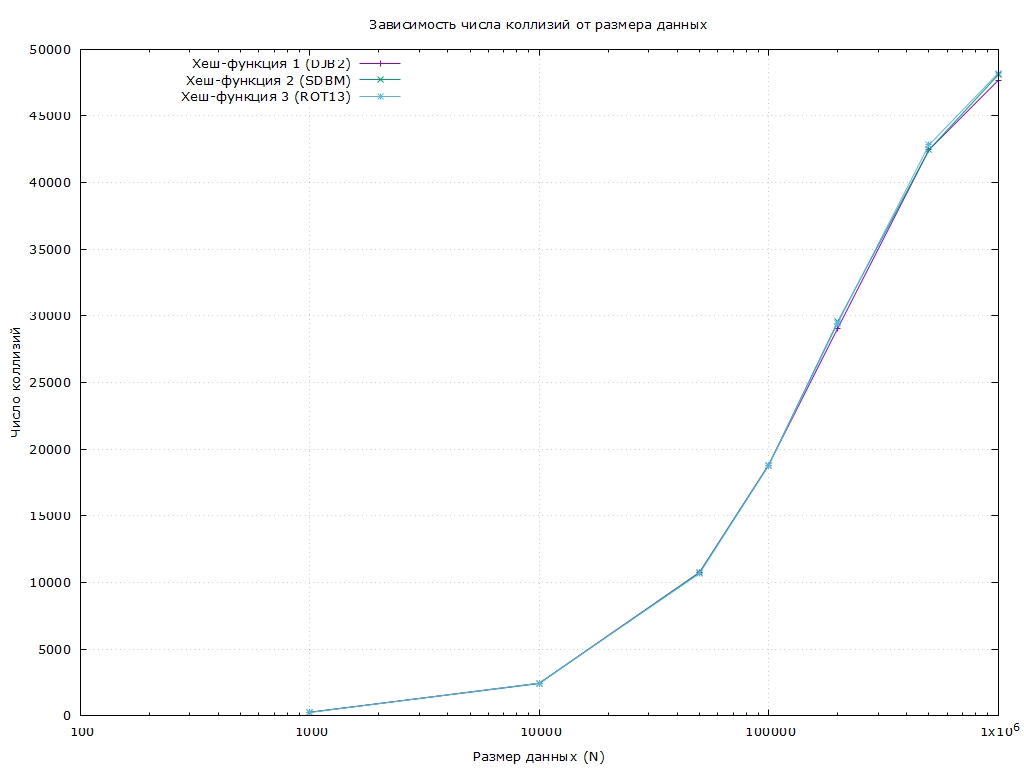
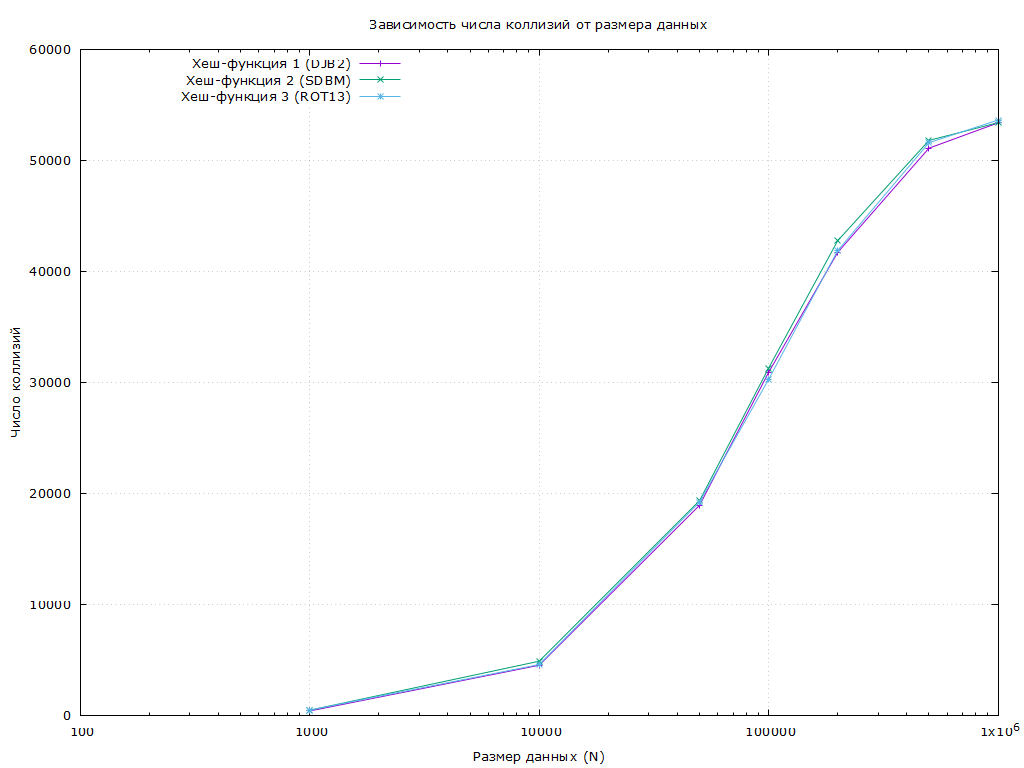
fixed & finished

diff --git a/utility_functions.c b/utility_functions.c
@@ -161,11 +161,9 @@ void hash_table_set(HashTable* table, const char* key, void* value) {
     unsigned long long raw_hash = table->hash_func(key);
     long index = (long)(raw_hash % table->capacity);
     long original_index = index;
-    if (table->entries[index].key != NULL && strcmp(table->entries[index].key, key) != 0) {
-        table->collisions++;
-    }
     // Линейное пробирование для поиска нужного слота
     while (table->entries[index].key != NULL && strcmp(table->entries[index].key, key) != 0) {
+        table->collisions++;
         index = (index + 1) % table->capacity;
         if (index == original_index) { // Таблица заполнена
             return;
@@ -180,15 +178,15 @@ void hash_table_set(HashTable* table, const char* key, void* value) {
 
     if (table->entries[index].key == NULL) {
         // Новый ключ: вставляем в первый раз
-        table->entries[index].key = strdup(key); // Копируем ключ
+        table->entries[index].key = strdup(key);
         if(!table->entries[index].key){
             free(newNode);
             return;
         }
         table->entries[index].head = newNode;
         table->size++;
-    } else {
-        // Ключ уже существует: добавляем значение в начало списка
+    }
+    else {
         newNode->next = table->entries[index].head;
         table->entries[index].head = newNode;
     }

diff --git a/main.c b/main.c
@@ -9,7 +9,6 @@ int main() {
     srand(time(NULL));
 
     const long size = 500000;
-    // Генерируем массив структур School длины size
     School* teachers = genArray(size);
     if (!teachers) {
         return 1;
@@ -38,7 +37,6 @@ int main() {
     printf("Collisions: %ld\n", hash_table->collisions);
 
 
-    // Поиск по ключу
     printf("\nEnter a key (full name) to search: ");
     char key[MAX_LENGTH];
     if (fgets(key, sizeof(key), stdin) == NULL) {
@@ -46,7 +44,6 @@ int main() {
     } 
     else {
         key[strcspn(key, "\n")] = 0;
-        // Получаем указатель на голову списка найденных записей
         RecordNode* found_records = hash_table_get(hash_table, key);
         if (found_records == NULL) {
             printf("No records found\n");
@@ -54,7 +51,6 @@ int main() {
         else {
             printf("Found records:\n");
             int count = 0;
-            // Проходим по всему связанному списку и печатаем каждую запись
             for (RecordNode* current = found_records; current != NULL; current = current->next) {
                 count++;
                 printf("Record %d:\n", count);
@@ -63,8 +59,6 @@ int main() {
             }
         }
     }
-
-    // Освобождаем память
     destroy_hash_table(hash_table);
     free(teachers);
     return 0;

diff --git a/main_test.c b/main_test.c
@@ -55,7 +55,6 @@ int main() {
                 hash_table_set(table, teachers[k].full_name, &teachers[k]);
             }
             fprintf(collisions_file, "%ld %ld\n", current_size, table->collisions);
-            const char* key_to_search = teachers[current_size / 2].full_name;
             clock_t start = clock();
             clock_t end = clock();
             double time_spent = (double)(end - start) / CLOCKS_PER_SEC;
